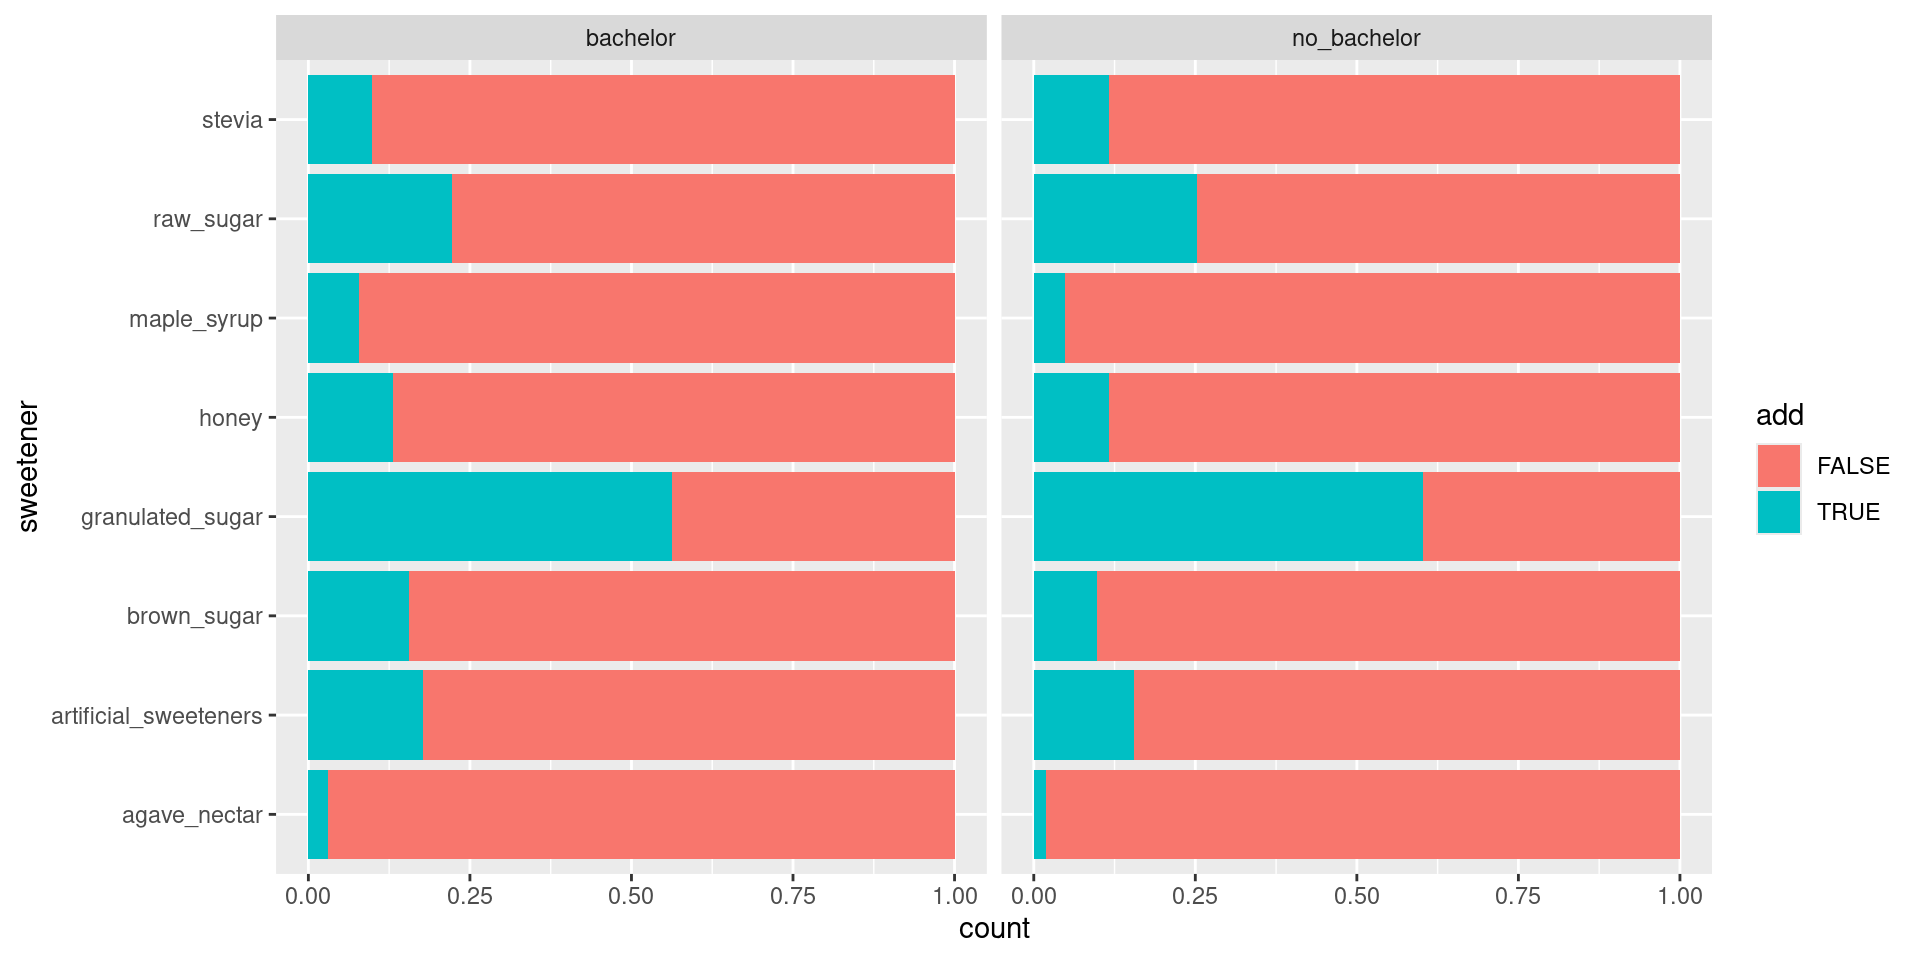
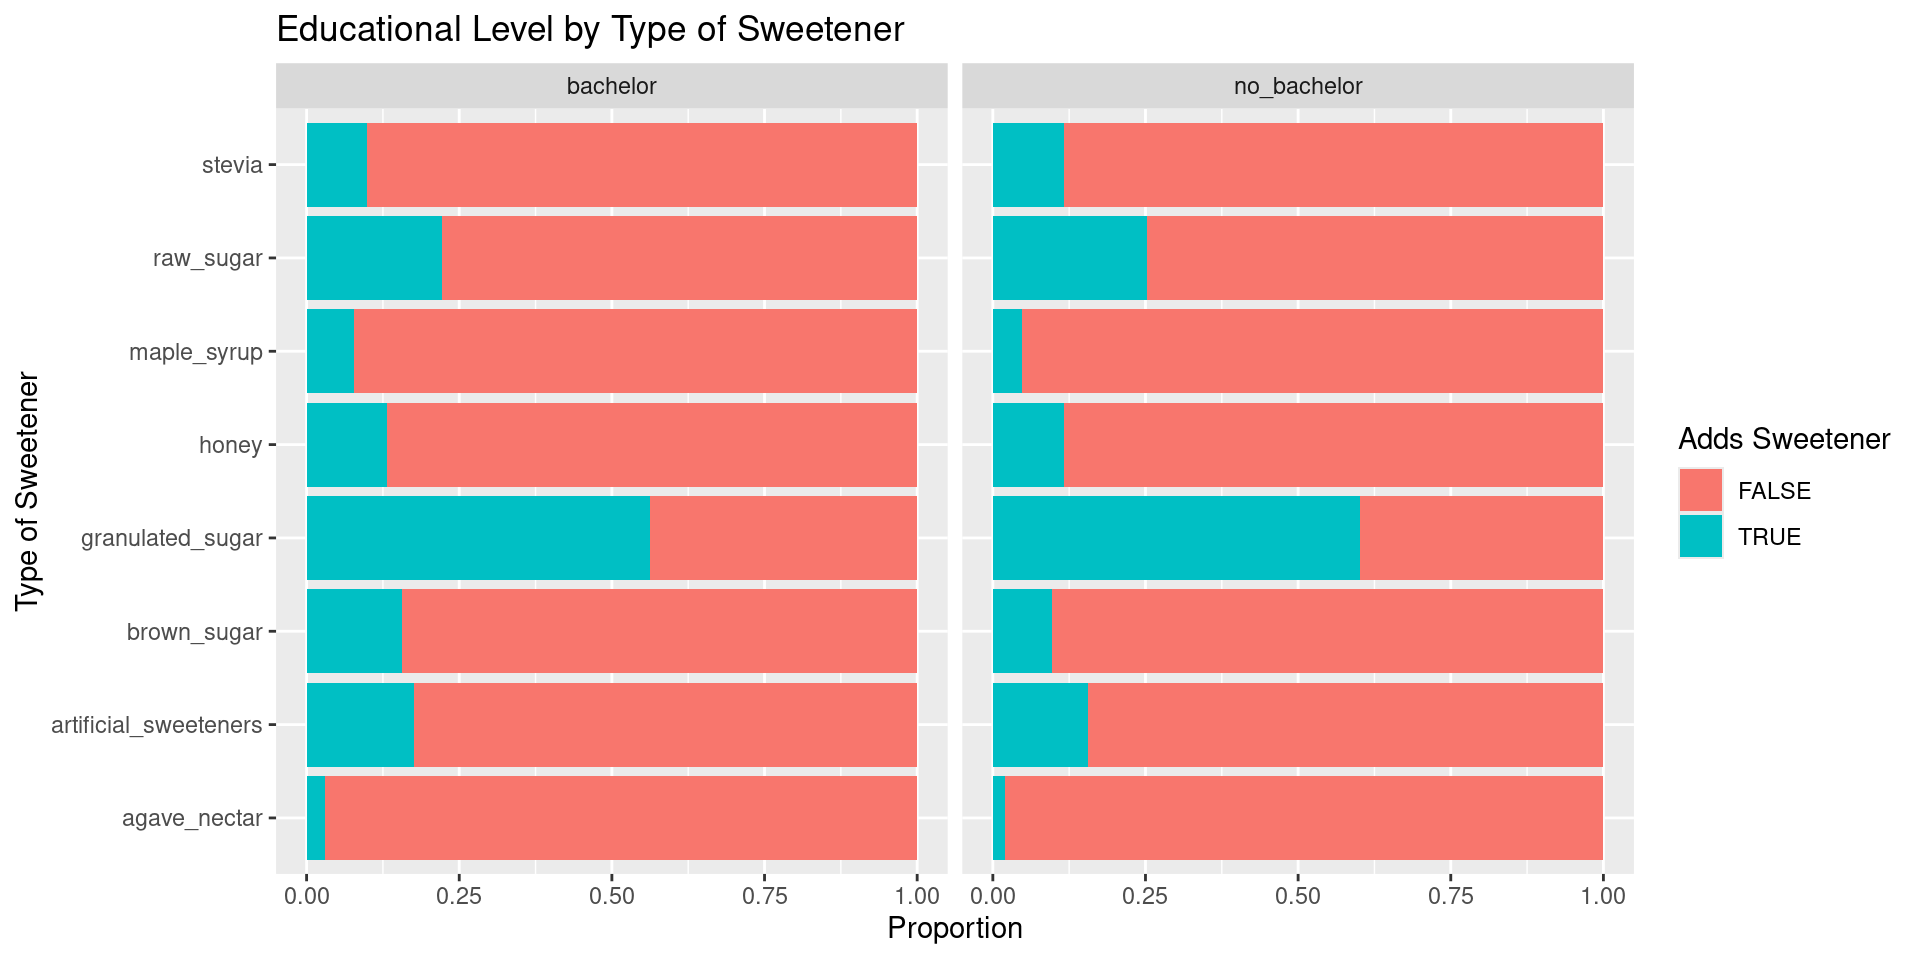
fixed styling issues for presentation

diff --git a/docs/presentation.html b/docs/presentation.html
@@ -245,6 +245,7 @@
     }
     .reveal .slide:not(.center) {
       height: 100%;
+      overflow-y: auto;
     }
     .reveal .slide.scrollable {
       overflow-y: auto;
@@ -353,94 +354,143 @@ Brilliant Cassowary <br> Jinpeng Li, Joice Chen, Nidhi Soma, Stephen Syl-Akinwal
 <li><p>Coffee A - Light roast, Washed, Coffee B - Medium Roast, Coffee C - Dark roast, Coffee D - Fermented, Natural, Fruity</p></li>
 </ul>
 </section>
-<section id="highlights-from-eda" class="slide level2">
-<h2>Highlights from EDA</h2>
+<section id="most-preferred-roast-level" class="slide level2 smaller">
+<h2>Most Preferred Roast Level</h2>
 <p>Looking at these variables we can see age ranges 25-34 are the most avid coffee drinkers. We want to see more about their taste preferences.</p>
 
 <img data-src="presentation_files/figure-revealjs/unnamed-chunk-1-1.png" width="960" class="r-stretch"></section>
-<section id="educational" class="slide level2">
-<h2>Educational</h2>
+<section id="similar-sweetener-preference-by-educational-level" class="slide level2 smaller">
+<h2>Similar Sweetener Preference by Educational Level</h2>
 
 <img data-src="presentation_files/figure-revealjs/unnamed-chunk-2-1.png" width="960" class="r-stretch"></section>
-<section id="inference-for-roast-level" class="slide level2">
-<h2>Inference for Roast Level</h2>
+<section id="hypothesis-1-inference-for-roast-level" class="slide level2 smaller">
+<h2>Hypothesis 1: Inference for Roast Level</h2>
 <div class="cell">
-<div class="cell-output cell-output-stdout">
-<pre><code># A tibble: 7 × 5
-  term               estimate std.error statistic  p.value
-  &lt;chr&gt;                 &lt;dbl&gt;     &lt;dbl&gt;     &lt;dbl&gt;    &lt;dbl&gt;
-1 (Intercept)          0.842     0.0772    10.9   2.73e-27
-2 age18-24 years old   0.0229    0.0789     0.290 7.72e- 1
-3 age25-34 years old   0.0519    0.0776     0.669 5.04e- 1
-4 age35-44 years old   0.0342    0.0780     0.439 6.61e- 1
-5 age45-54 years old  -0.0233    0.0797    -0.293 7.70e- 1
-6 age55-64 years old  -0.146     0.0811    -1.81  7.11e- 2
-7 age&gt;65 years old    -0.161     0.0847    -1.90  5.70e- 2</code></pre>
+<div class="cell-output-display">
+<table>
+<thead>
+<tr class="header">
+<th style="text-align: left;">term</th>
+<th style="text-align: right;">estimate</th>
+<th style="text-align: right;">std.error</th>
+<th style="text-align: right;">statistic</th>
+<th style="text-align: right;">p.value</th>
+</tr>
+</thead>
+<tbody>
+<tr class="odd">
+<td style="text-align: left;">(Intercept)</td>
+<td style="text-align: right;">0.8421053</td>
+<td style="text-align: right;">0.0772352</td>
+<td style="text-align: right;">10.9031299</td>
+<td style="text-align: right;">0.0000000</td>
+</tr>
+<tr class="even">
+<td style="text-align: left;">age18-24 years old</td>
+<td style="text-align: right;">0.0228833</td>
+<td style="text-align: right;">0.0788963</td>
+<td style="text-align: right;">0.2900425</td>
+<td style="text-align: right;">0.7717990</td>
+</tr>
+<tr class="odd">
+<td style="text-align: left;">age25-34 years old</td>
+<td style="text-align: right;">0.0519040</td>
+<td style="text-align: right;">0.0776100</td>
+<td style="text-align: right;">0.6687794</td>
+<td style="text-align: right;">0.5036755</td>
+</tr>
+<tr class="even">
+<td style="text-align: left;">age35-44 years old</td>
+<td style="text-align: right;">0.0342161</td>
+<td style="text-align: right;">0.0780069</td>
+<td style="text-align: right;">0.4386287</td>
+<td style="text-align: right;">0.6609547</td>
+</tr>
+<tr class="odd">
+<td style="text-align: left;">age45-54 years old</td>
+<td style="text-align: right;">-0.0233133</td>
+<td style="text-align: right;">0.0796593</td>
+<td style="text-align: right;">-0.2926627</td>
+<td style="text-align: right;">0.7697955</td>
+</tr>
+<tr class="even">
+<td style="text-align: left;">age55-64 years old</td>
+<td style="text-align: right;">-0.1464531</td>
+<td style="text-align: right;">0.0811249</td>
+<td style="text-align: right;">-1.8052786</td>
+<td style="text-align: right;">0.0711077</td>
+</tr>
+<tr class="odd">
+<td style="text-align: left;">age&gt;65 years old</td>
+<td style="text-align: right;">-0.1612542</td>
+<td style="text-align: right;">0.0846819</td>
+<td style="text-align: right;">-1.9042350</td>
+<td style="text-align: right;">0.0569527</td>
+</tr>
+</tbody>
+</table>
 </div>
 </div>
 <ul>
-<li><p>Model predicts that people aged 18-24 years old will have a 0.029 lower proportion of people that prefer lighter roasts than people aged 25-34 years old, on average.</p></li>
-<li><p>Younger people aged 18-24 are actually not the most likely group to prefer lighter roasts?</p></li>
+<li><p>Model predicts that people aged 18-24 years old will have a 0.0229 lower proportion of people that prefer lighter roasts than people aged 25-34 years old, on average.</p></li>
+<li><p>Leads to question: Are people aged 18-24 actually not the most likely group to prefer lighter roasts?</p></li>
 </ul>
 </section>
-<section id="visualizing-lighterdarker-roasts" class="slide level2">
-<h2>Visualizing Lighter/Darker Roasts</h2>
+<section id="hypothesis-1-visualizing-lighterdarker-roasts" class="slide level2 smaller">
+<h2>Hypothesis 1: Visualizing Lighter/Darker Roasts</h2>
 
-<img data-src="presentation_files/figure-revealjs/show-independence-relationship-1.png" width="960" class="r-stretch"><p>If there were no relationship between these two variables, we would expect to see the purple bars reaching to the same height, regardless of age group. We need to conduct a chi-squared test of independence to see if the differences we see here are just random noise or a meaningful relationship.</p>
+<img data-src="presentation_files/figure-revealjs/show-independence-relationship-1.png" width="960" class="r-stretch"><ul>
+<li><p>If there were no relationship between these two variables, we would expect to see the purple bars reaching to the same height, regardless of age group.</p></li>
+<li><p>Are differences just random noise or a meaningful relationship? - Chi square test!</p></li>
+</ul>
 </section>
-<section id="chi-squared-test-for-roast-level" class="slide level2">
-<h2>Chi squared test for Roast Level</h2>
+<section id="hypothesis-1-chi-squared-test-for-roast-level" class="slide level2">
+<h2>Hypothesis 1: Chi squared test for Roast Level</h2>
 <p>Null hypothesis: There is no association between age group and a lighter roast level preference.</p>
 <p>Alternative hypothesis: There is an association between age group and a lighter roast level preference.</p>
-<div class="cell">
-
-<div class="cell-output cell-output-stdout">
-<pre><code># A tibble: 1 × 1
-  p_value
-    &lt;dbl&gt;
-1       0</code></pre>
-</div>
-</div>
-<img data-src="presentation_files/figure-revealjs/chi-sqr-test-1.png" width="960" class="r-stretch"></section>
-<section id="hypothesis-test-for-sweetener-preference" class="slide level2">
-<h2>Hypothesis Test for Sweetener Preference</h2>
-<p>Null hypothesis: The true average number of types of sweetener preferred is the same between people in America with a Bachelor’s degree or higher and people without a Bachelor’s degree.</p>
-<p>Alternative hypothesis: The true average number of types of sweetener preferred is not the same between people in America with a Bachelor’s degree or higher and people without a Bachelor’s degree.</p>
-<div class="cell">
-<div class="cell-output cell-output-stdout">
-<pre><code># A tibble: 2 × 2
-  education_level  mean
-  &lt;fct&gt;           &lt;dbl&gt;
-1 bachelor         1.46
-2 no_bachelor      1.41</code></pre>
-</div>
-</div>
-<p>The observed statistic is 1.455-1.408 = 0.047</p>
 </section>
-<section id="hypothesis-test-for-sweetener-preference-1" class="slide level2">
-<h2>Hypothesis Test for Sweetener Preference</h2>
-<div class="cell">
+<section class="slide level2">
 
-<div class="cell-output cell-output-stdout">
-<pre><code># A tibble: 1 × 1
-  p_value
-    &lt;dbl&gt;
-1   0.345</code></pre>
+
+<img data-src="presentation_files/figure-revealjs/unnamed-chunk-6-1.png" width="960" class="r-stretch"><div class="cell">
+<div class="cell-output-display">
+<table>
+<thead>
+<tr class="header">
+<th style="text-align: right;">p_value</th>
+</tr>
+</thead>
+<tbody>
+<tr class="odd">
+<td style="text-align: right;">0</td>
+</tr>
+</tbody>
+</table>
 </div>
 </div>
-<img data-src="presentation_files/figure-revealjs/unnamed-chunk-7-1.png" width="960" class="r-stretch"><p>The hypothesis test resulted in a p-value of 0.35, which is larger than the critical value of 0.05. This high p-value indicates that we do not have sufficient evidence to reject the null hypothesis.</p>
+<p>We can reject the null hypothesis because our p-value of approximately 0 is less than the alpha value of 0.05.</p>
 </section>
-<section id="conclusions-future-work" class="slide level2">
+<section id="conclusions-future-work" class="slide level2 smaller">
 <h2>Conclusions + future work</h2>
+<ul>
+<li>For roast level, there is sufficient evidence that there is an association between age group and preferring lighter roasts of coffee.</li>
+<li>Certain age groups are more prone to enjoying a certain taste, while others prefer the caffeine.</li>
+<li>For number of sweeteners and educational level, we cannot really come to a conclusion</li>
+</ul>
+<p>Future directions:</p>
+<ul>
+<li><p>Text analysis for the columns specifying people’s reason for enjoying coffee versus their age group to explore this hypothesis.</p></li>
+<li><p>Make results more specific and relevant to Cornell community - held back by limitations on next slide</p></li>
+</ul>
 </section>
 <section id="limitations" class="slide level2">
 <h2>Limitations</h2>
 <ul>
-<li>Answers were not mandatory so there were a lot of absent values</li>
-<li>It was only conducted in the US</li>
-<li>Because Measurements were not uniformly recorded, it is likely respondents misrepresented their measurements.</li>
-<li>It was provided by cometncer coffee company, it is possible their roasts are very different from other brands</li>
-<li>The population available are already avid coffee drinkers so there might be bias to some of their responses.</li>
+<li><p>Answers were not mandatory, lots of absent values</p></li>
+<li><p>Only conducted in the US</p></li>
+<li><p>Respondents could have misrepresented their measurements</p></li>
+<li><p>Provided by Cometeer coffee company: possibly different tastes and limited selection</p></li>
+<li><p>Population is not representative: respondents are already avid coffee drinkers</p></li>
 </ul>
 <div class="quarto-auto-generated-content">
 <div class="footer footer-default">
